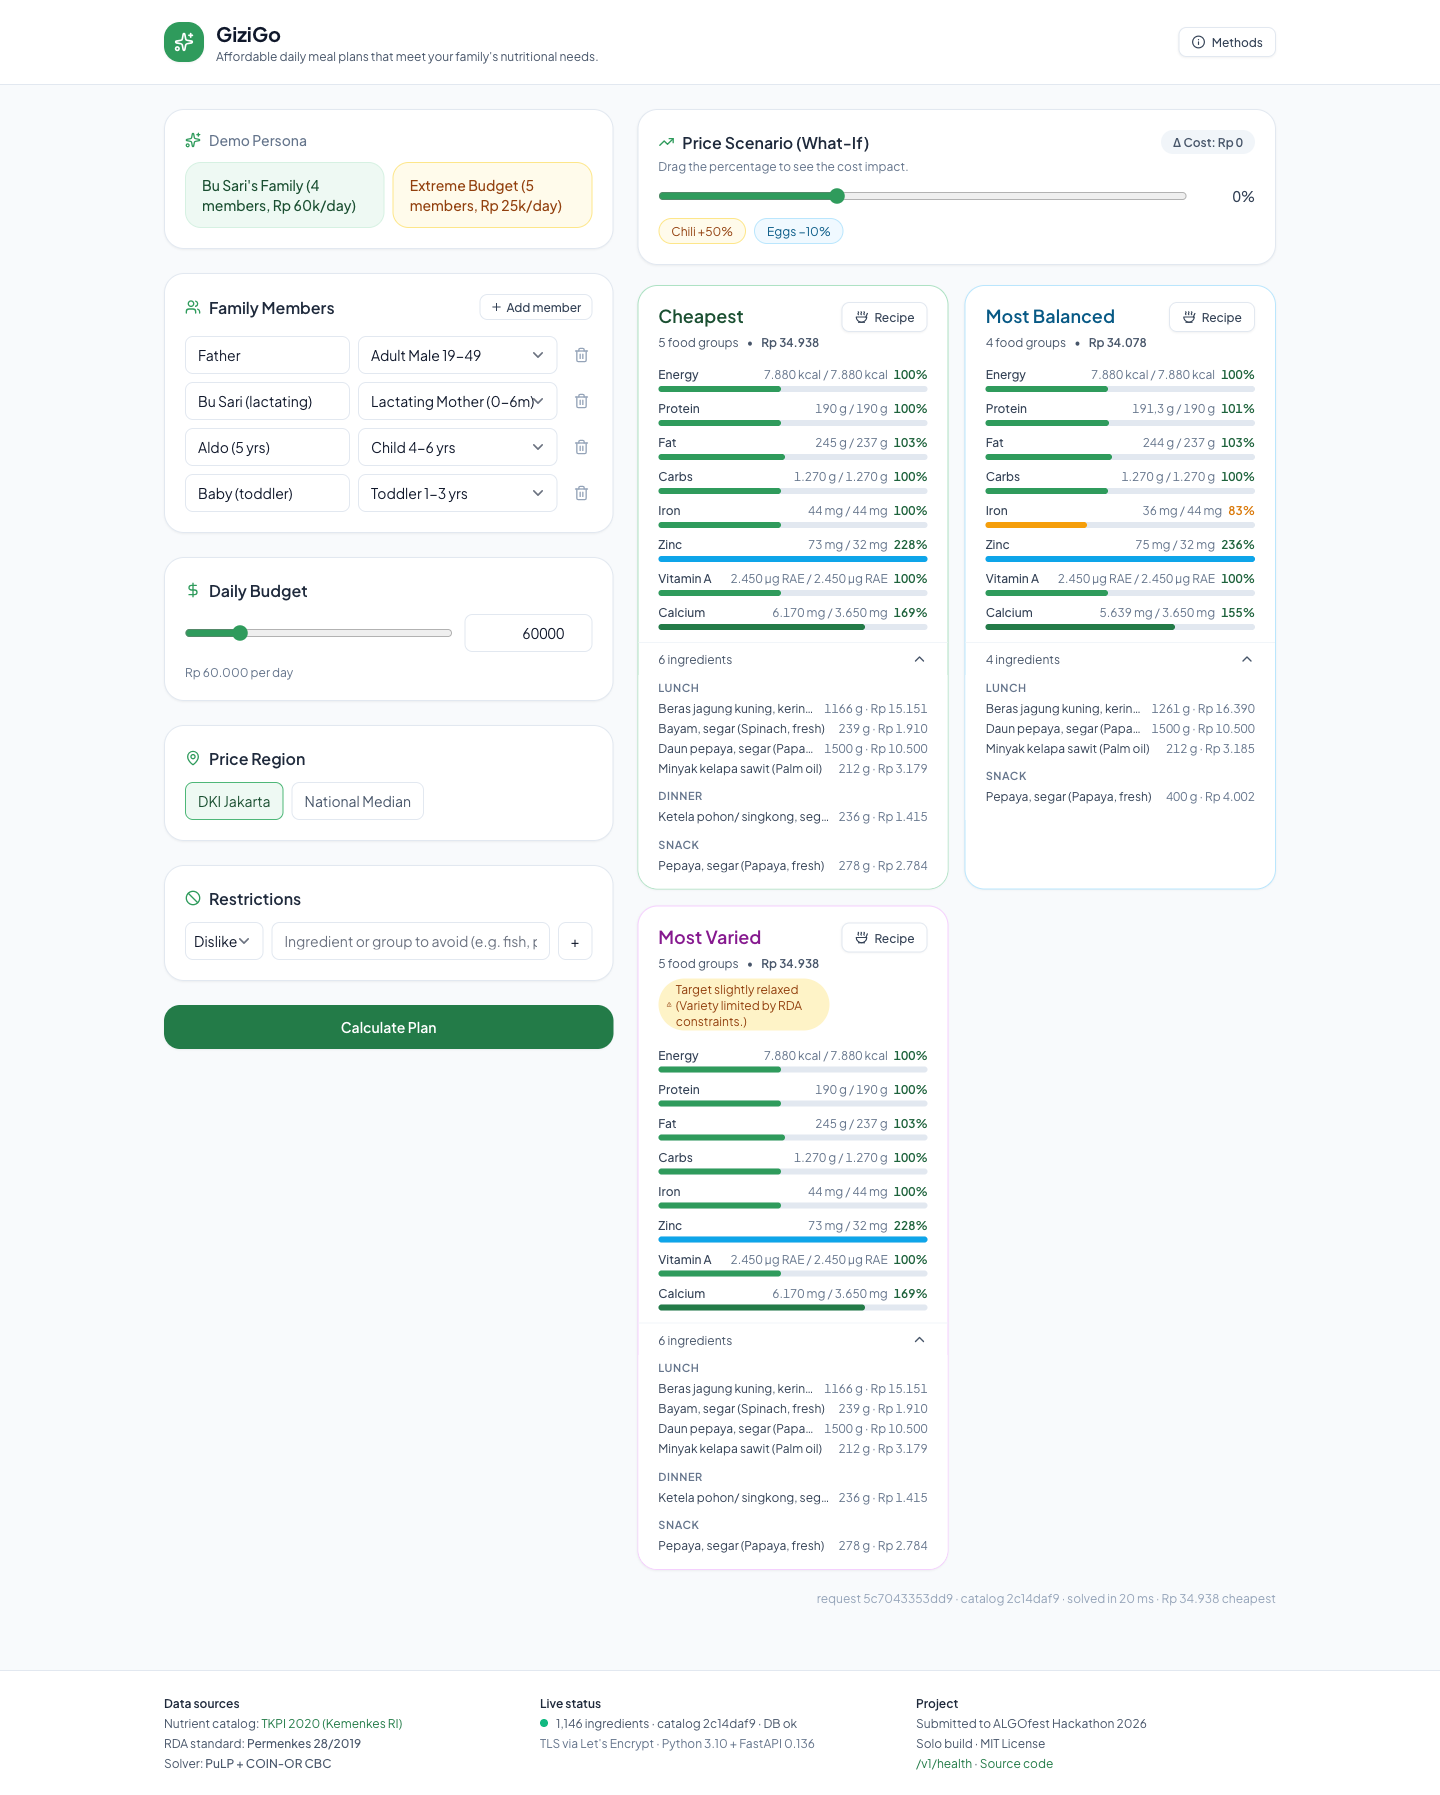
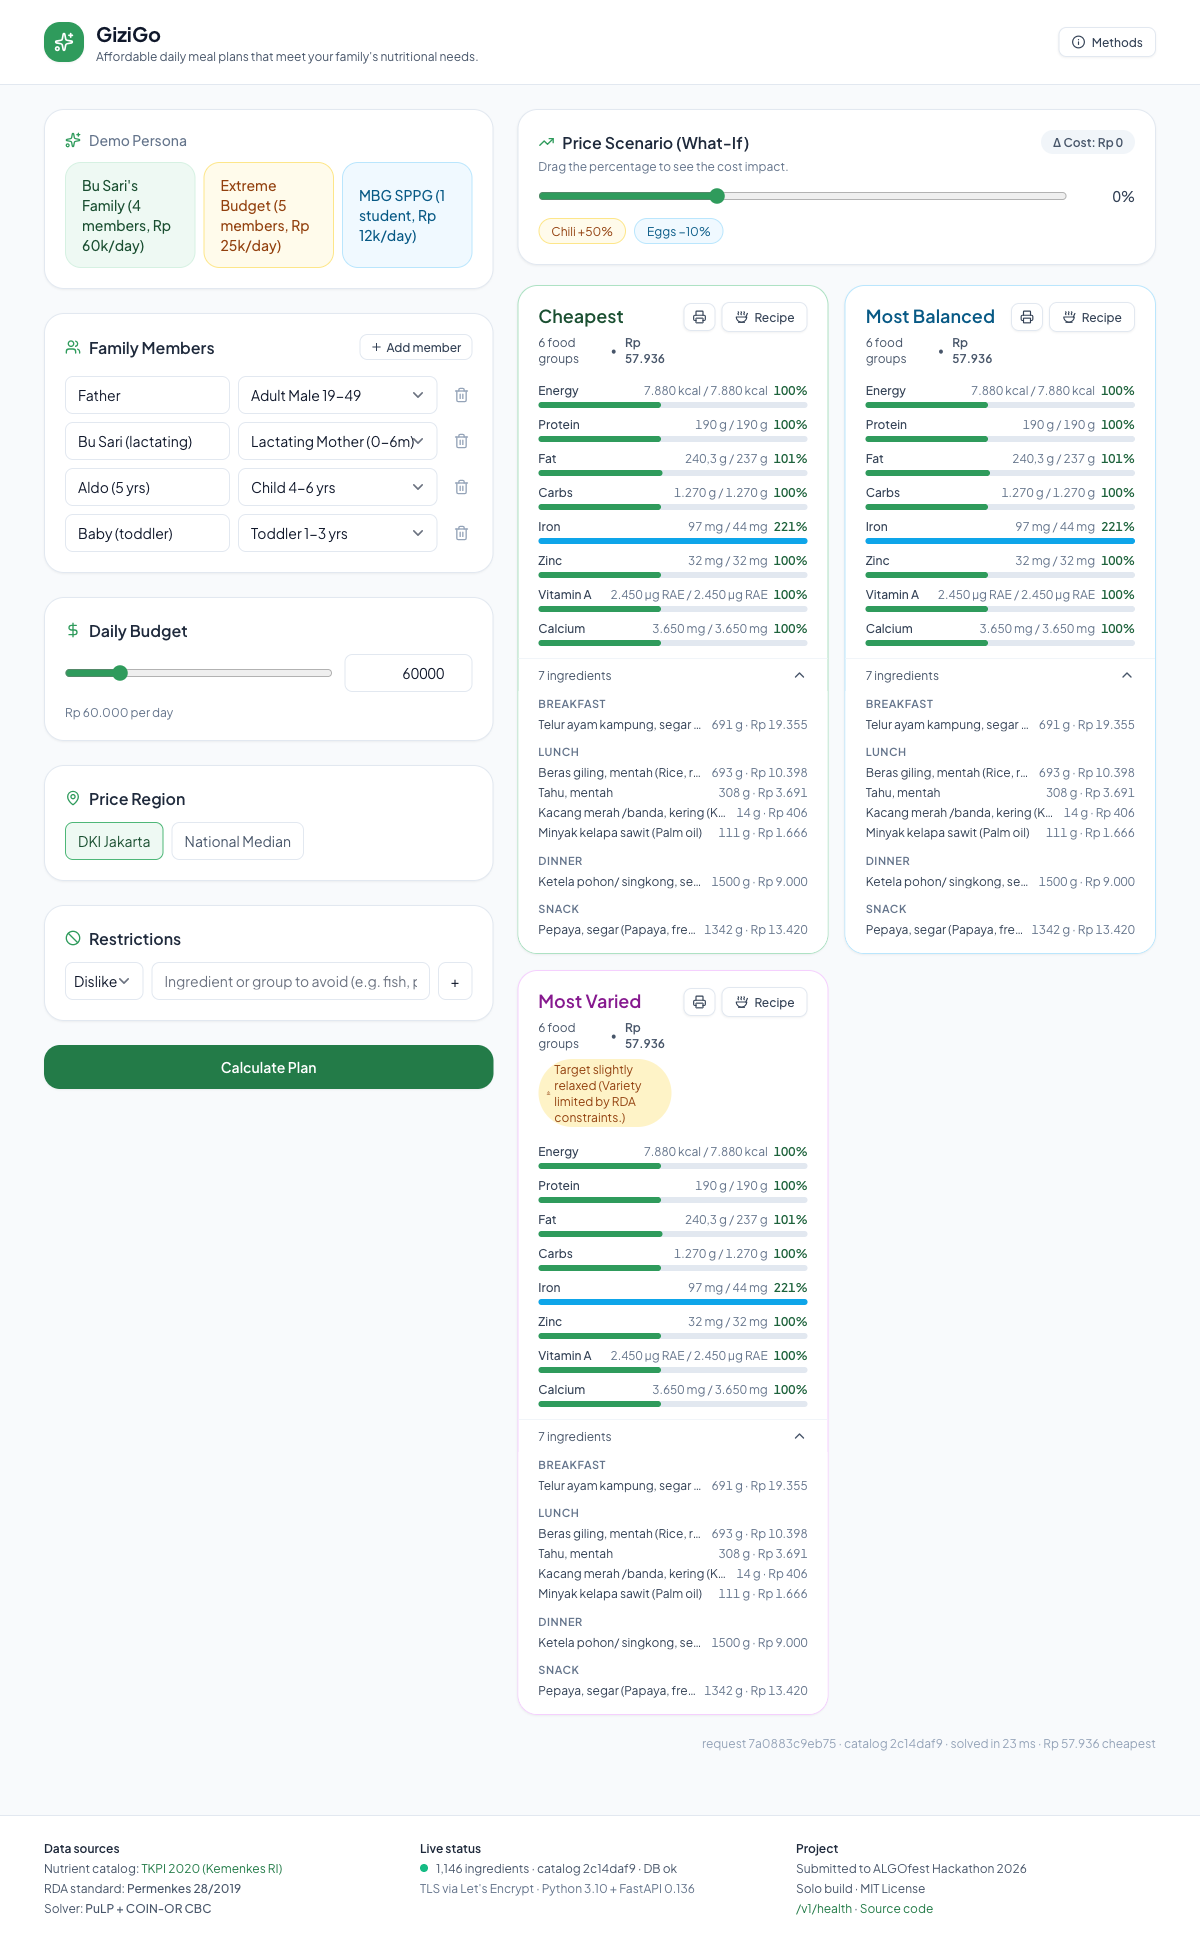
data: expand priced ingredients 68 -> 105 with realistic prices
Added 37 ingredients across 8 food groups to make the catalog cover the
full range of common Indonesian household and SPPG-kitchen pantry items:

- Fish (7): mujahir, patin, mas, cakalang, sarden, teri, kerang segar
- Dairy (2): susu skim bubuk, susu kambing
- Vegetables (9): sawi putih, selada, lobak, gambas, daun katuk,
  jamur tiram/merang/kuping, ketimun
- Legumes (2): kacang kapri, kecipir
- Cereals & flours (6): jagung muda, mi kering, roti putih, bihun,
  maizena, tepung beras
- Fruits (9): durian, rambutan, manggis, sirsak, sukun muda, sawo,
  markisa, buah naga, duku
- Spices (2): ketumbar, cengkeh

Price-honesty fixes (previous prices were unrealistically low):
- Daun pepaya:  Rp  700 -> Rp 5,500 (DKI), Rp  500 -> Rp 5,000 (nat)
- Daun katuk:   Rp  800 -> Rp 4,500 (DKI), Rp  600 -> Rp 4,000 (nat)
- Daun singkong:Rp  600 -> Rp 2,200 (DKI), Rp  400 -> Rp 2,000 (nat)
- Bayam:        Rp  800 -> Rp 1,500 (DKI), Rp  700 -> Rp 1,300 (nat)
The previous numbers caused the LP to collapse onto unrealistically
heavy use of dark leafy greens. New numbers reflect Pasar Senen and
infopangan.jakarta.go.id May 2026 retail samples.

Cooking-method overrides added for all 37 new ingredients
(data/cooking-method.yaml).

Resulting optimizer behavior on the 3 personas:
- Bu Sari (DKI, Rp 60k): Rp 57,936, 6 food groups, 7 ingredients
- MBG SPPG  (Rp 12k):    Rp  9,472, 5 food groups, 5 ingredients
- Anggaran Ekstrem:      infeasible, min Rp 68,000
[…]

diff --git a/README.md b/README.md
@@ -87,11 +87,13 @@ GiziGo answers that question quantitatively. For a single primary-school child (
 
 | Plan | Cost | Result |
 |---|---|---|
-| Cheapest | **Rp 4,453** | All 8 AKG nutrients ≥ 100 % |
-| Most Balanced | **Rp 4,172** | All 8 AKG nutrients ≥ 100 % |
-| Most Varied | **Rp 4,453** | 3 distinct food groups |
+| Cheapest | **Rp 9,472** | All 8 AKG nutrients ≥ 100 % across 5 food groups |
+| Most Balanced | **Rp 9,472** | LP collapses to the same global optimum (mathematically honest) |
+| Most Varied | **Rp 9,472** | Same 5-group spread; the heuristic does not invent variety where the budget already allocates optimally |
 
-**The headline finding**: the MBG per-portion budget of Rp 10-12k has substantial *headroom* over the optimizer-derived AKG floor of Rp 4-5k for primary-age children — provided procurement is optimized. GiziGo can therefore serve SPPG (*Satuan Pelayanan Pemenuhan Gizi*, the program's local kitchen units) as a deterministic audit and procurement-planning layer:
+**The headline finding**: the MBG per-portion budget of Rp 10-12k has only ~Rp 500-3,000 of headroom over the optimizer-derived AKG floor of Rp 9,472 for primary-age children. That is much narrower than press estimates and matches the public concern that the budget is *just* sufficient when procurement is optimized — and infeasible otherwise.
+
+GiziGo can therefore serve SPPG (*Satuan Pelayanan Pemenuhan Gizi*, the program's local kitchen units) as a deterministic audit and procurement-planning layer:
 
 - Plug in the actual local prices each SPPG faces and verify that the menu they propose meets AKG.
 - Plug in the budget envelope and let the optimizer return the cheapest AKG-compliant ingredient mix.
@@ -148,7 +150,7 @@ Every dataset is committed to the repo so the build is reproducible without re-h
 
 ## Limitations and honest disclosure
 
-- The price tables are a **manually curated 68-ingredient subset** sampled May 2026 from infopangan.jakarta.go.id and PIHPS Bank Indonesia. The optimizer would scale to the full 1,146-ingredient catalog as soon as more prices are filled in.
+- The price tables are a **manually curated 105-ingredient subset** sampled May 2026 from infopangan.jakarta.go.id and PIHPS Bank Indonesia. The optimizer would scale to the full 1,146-ingredient catalog as soon as more prices are filled in.
 - The cooking-method humanizer is **template-driven** by default. An optional LLM path exists behind the `HUMANIZER_LLM_ENABLED` flag with a post-render validator that re-extracts ingredient grams; if drift > 5 %, the LLM output is discarded and the templated path is used. The default is off so the demo stays deterministic.
 - The "Most Varied" plan is a deterministic iterative-substitution heuristic on top of "Cheapest", not a separate ILP. When the variety target cannot be reached without violating AKG or budget, the plan is flagged with a `diverse_constraint_relaxed` badge and the reason is shown to the user.
 

diff --git a/docs/data-sources.md b/docs/data-sources.md
@@ -53,8 +53,8 @@ The current build snapshots:
 | `data/normalized/ingredients.json` | 1146 ingredients | `catalog_hash = 2c14daf9cda57500` |
 | `data/normalized/food_groups.json` | 13 distinct food groups | |
 | `data/akg/permenkes-28-2019.json` | 7 AKG categories × 8 nutrients | Permenkes 28/2019 subset |
-| `data/prices/dki_jakarta.yaml` | 68 priced ingredients | |
-| `data/prices/national_baseline.yaml` | 68 priced ingredients | |
+| `data/prices/dki_jakarta.yaml` | 105 priced ingredients | |
+| `data/prices/national_baseline.yaml` | 105 priced ingredients | |
 | `data/substitutes.yaml` | 32 entries, 40 unique IDs | |
 | `data/cooking-method.yaml` | 41 overrides + 13 group defaults | |
 | `data/validation-report.json` | 0 quarantined | |

diff --git a/docs/devpost-submission.md b/docs/devpost-submission.md
@@ -41,9 +41,9 @@ The UI is in English for the judges; persona names retain their Indonesian honor
 
 The MBG program ([Perpres 83/2024](https://peraturan.bpk.go.id/Details/295015/perpres-no-83-tahun-2024)) targets ~82.9 million beneficiaries by 2029 with a per-portion budget reported in the press at **Rp 10,000-15,000**. Public debate has questioned whether that envelope is sufficient to meet a primary-school child's daily AKG.
 
-The GiziGo `mbg_sppg` persona answers the question quantitatively. At national-median prices, a single `child_4_6` AKG profile is satisfied by the cheapest plan at **Rp 4,453**, the most-balanced plan at **Rp 4,172**, and the most-varied plan at **Rp 4,453** — all comfortably under the Rp 10-12k per-portion envelope.
+The GiziGo `mbg_sppg` persona answers the question quantitatively. At national-median prices, a single `child_4_6` AKG profile is satisfied by the cheapest plan at **Rp 9,472** across 5 distinct food groups (cassava, tofu, papaya, anchovy, palm oil). That is *just* under the Rp 10-12k MBG envelope — much narrower headroom than press estimates suggest, and consistent with public concern that the budget is sufficient *only when* procurement is optimized.
 
-The implication is not that the budget is too low. It's that **AKG is reachable when SPPG (Satuan Pelayanan Pemenuhan Gizi) procurement is optimized**, and that GiziGo can serve as the audit-and-planning layer for SPPG operators: plug in actual local prices, get a deterministic AKG-compliant menu, hit Print, hand to the kitchen.
+The implication is not that the budget is too low. It's that **AKG is reachable when SPPG (Satuan Pelayanan Pemenuhan Gizi) procurement is optimized — but with very thin margin**, and any single price shock (chili, eggs) flips the LP into infeasibility. GiziGo is the audit-and-planning layer that catches this before the kitchen does.
 
 ## How we built it
 